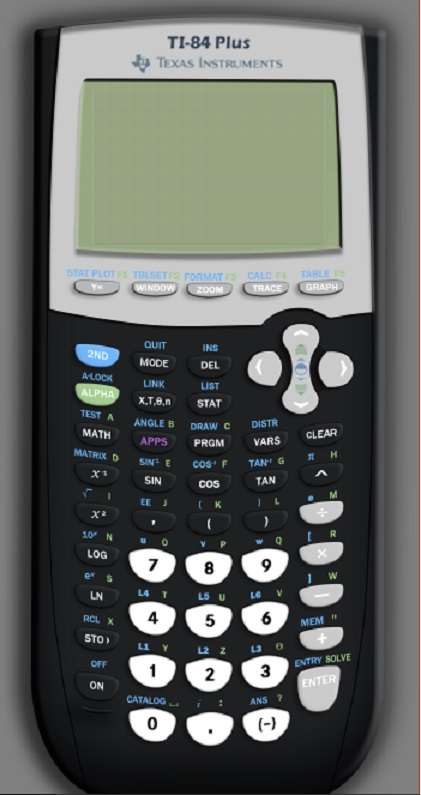
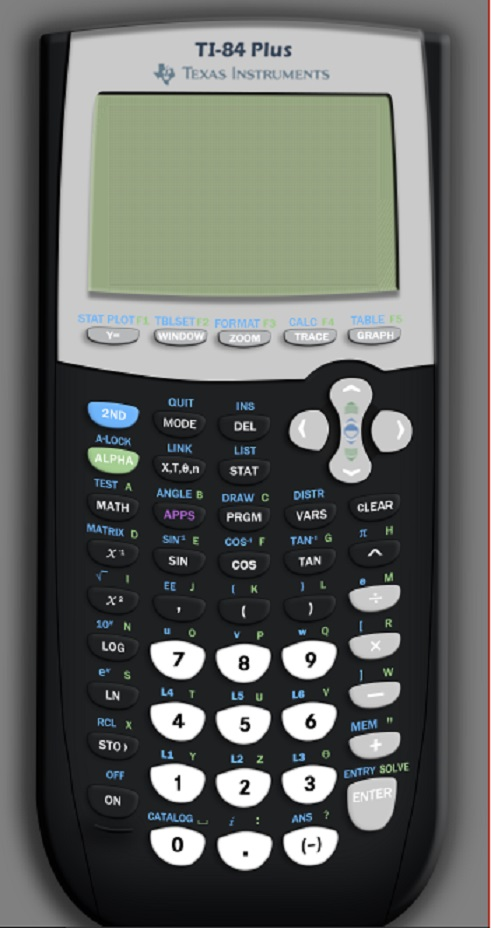
Add files via upload

diff --git a/css/stylesheet.css b/css/stylesheet.css
@@ -1,5 +1,5 @@
 body {
-    background-image: url('../images/ti-84.jpg');
+    background-image: url('../images/ti-84 mobile.jpg');
     background-repeat: no-repeat;
     background-attachment: fixed;
     background-position: left top;
